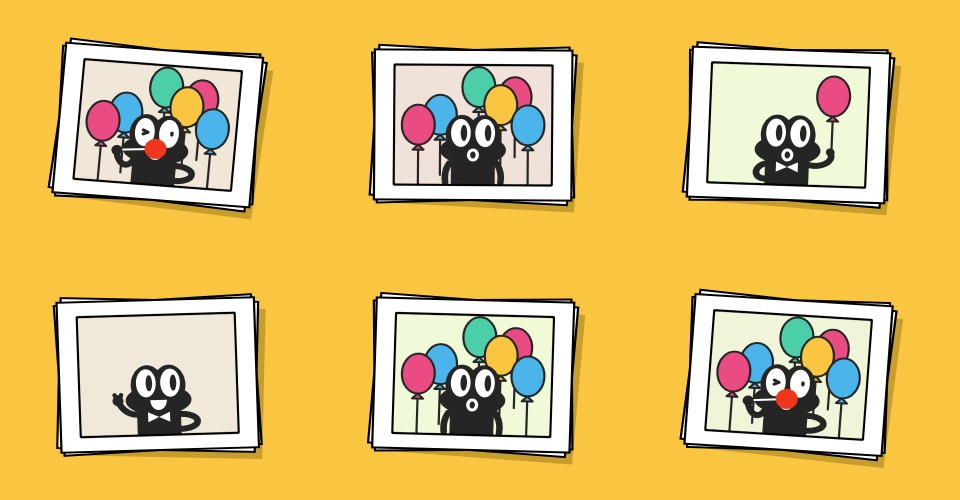
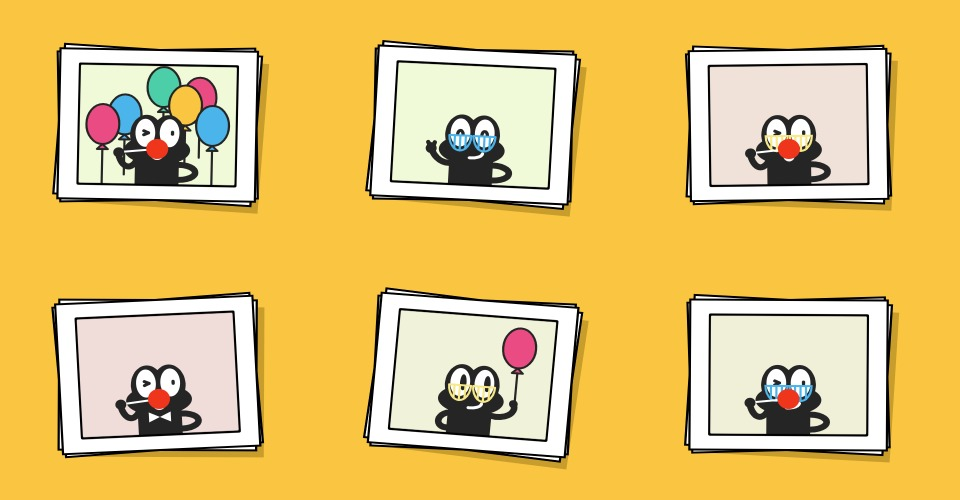
Final

diff --git a/face_code.js b/face_code.js
@@ -87,13 +87,13 @@ function myface(eyes, mouths, poses, rotation, props, backgroundColour) {
 
     //********props********//
     if (props == 2) { 
-    // ballon background
-        ballon(-3, -1, blue);
-        ballon(-5, 0, red);
-        ballon(0.5, -3.8, green);
-        ballon(3.8, -2.8, red);
-        ballon(2.5, -2, yellow);
-        ballon(5, 0, blue);
+    // balloon background
+        balloon(-3, -1, blue);
+        balloon(-5, 0, red);
+        balloon(0.5, -3.8, green);
+        balloon(3.8, -2.8, red);
+        balloon(2.5, -2, yellow);
+        balloon(5, 0, blue);
     }
     //********Draw the frog********
     // torso
@@ -194,7 +194,7 @@ function myface(eyes, mouths, poses, rotation, props, backgroundColour) {
         pop();
 
     } else if (poses == 2) { 
-      // holding a ballon
+      // holding a balloon
         push(); // left arm
         noFill();
         stroke(darkGery);
@@ -220,7 +220,7 @@ function myface(eyes, mouths, poses, rotation, props, backgroundColour) {
         ellipse(3.9, 2.6, 0.8);
         pop();
 
-        ballon(4, -3, red);
+        balloon(4, -3, red);
 
     }
 
@@ -297,13 +297,13 @@ function myface(eyes, mouths, poses, rotation, props, backgroundColour) {
 
 }
 
-function ballon(x, y, ballonColour) {
+function balloon(x, y, balloonColour) {
     let darkGery = color("#262525");
     stroke(darkGery);
     strokeWeight(0.2);
     strokeJoin(ROUND);
-    fill(ballonColour);
-    ellipse(x, y, 3, 4); // ballon
+    fill(balloonColour);
+    ellipse(x, y, 3, 4); // balloon
     triangle(x - 0.5, y + 2.5, x, y + 2, x + 0.5, y + 2.5); // knot
     line(x, y + 2.5, x, y + 6); // string
 }

diff --git a/editor.js b/editor.js
@@ -90,7 +90,7 @@ function draw () {
  let poses = int(map(s3, 0, 100, 0, 3));
  let rotation = map(s4, 0, 100, -5, 5);
  let props = int(map(s5, 0, 100, 0, 3));
- let backgroundColour = map(s6, 0, 100, 210, 230);
+ let backgroundColour = map(s6, 0, 100, 210, 250);
 
 
  myface(eyes, mouths, poses, rotation, props, backgroundColour);
@@ -104,8 +104,6 @@ function draw () {
    orangeAlienFace(tilt_value, eye_value, mouth_value);
   }
 
-
-
   if (mode == '3') {
     simplePurpleFace();
   }
@@ -118,10 +116,10 @@ function draw () {
     noFill()
     stroke(0, 0, 255);
     rect(-10, -10, 20, 20);
-    line(  0, -11,  0, -10);
-    line(  0,  10,  0, 11);
-    line(-11,   0,-10,  0);
-    line( 11,   0, 10,  0);
+    line(0, -11, 0, -10);
+    line(0, 10, 0, 11);
+    line(-11, 0, -10, 0);
+    line( 11, 0, 10, 0);
   }
 
   pop();

diff --git a/editor.html b/editor.html
@@ -61,19 +61,19 @@
                     <td id="slider6Container"></td>
                 </tr>
                 <tr>
-                    <td>Setting 7</td>
+                    <td> </td>
                     <td id="slider7Container"></td>
                 </tr>
                 <tr>
-                    <td>Setting 8</td>
+                    <td> </td>
                     <td id="slider8Container"></td>
                 </tr>
                 <tr>
-                    <td>Setting 9</td>
+                    <td> </td>
                     <td id="slider9Container"></td>
                 </tr>
                 <tr>
-                    <td>Setting 10</td>
+                    <td> </td>
                     <td id="slider10Container"></td>
                 </tr>
                 <tr>
